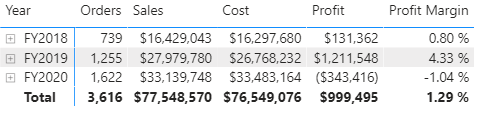
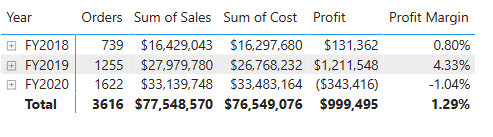
Fixes #299 and #301 (#302)

diff --git a/Instructions/Labs/08-design-power-bi-reports.md b/Instructions/Labs/08-design-power-bi-reports.md
@@ -46,6 +46,10 @@ In this task, you'll design the first report page. When you've completed the des
 
     ![Picture 1](Linked_image_Files/08-design-power-bi-reports_image15.png)
 
+1. The **Format Image** pane will open beside the canvas. From this pane, select **Image > Browse** to select the image file in the next step.
+
+    ![Format Image pane](Linked_image_Files/08-design-power-bi-reports-format-image.png)
+
 1. In the **Open** window, navigate to the **C:\Users\Student\Downloads\08-design-report** folder.
 
 1. Select the **AdventureWorksLogo.jpg** file, and then select **Open**.
@@ -200,19 +204,21 @@ In this task, you'll design the second report page. When you've completed the de
      - `Profit` (from the `Pricing` folder)
      - `Profit Margin` (from the `Pricing` folder)
 
+    > _The fields will show in the visual with a prefix showing the aggregation type; "Sum of Sales."_
+
     ![Picture 22](Linked_image_Files/08-design-power-bi-reports_image43.png)
 
-1. In the **Filters** pane (located at the left of the **Visualizations** pane), notice the **Filters on this page** section (you may need to expand open the pane and scroll down).
+2. In the **Filters** pane (located at the left of the **Visualizations** pane), notice the **Filters on this page** section (you may need to expand open the pane and scroll down).
 
     ![Picture 23](Linked_image_Files/08-design-power-bi-reports_image44.png)
 
-1. From the **Data** pane, drag the `Product | Category` field into the **Filters on this page** well.
+3. From the **Data** pane, drag the `Product | Category` field into the **Filters on this page** well.
 
     > _Fields added to the **Filters** pane can achieve the same result as a slicer. One difference is they don't take up space on the report page. Another difference is that they can be configured to achieve more sophisticated filtering requirements._
 
-1. Inside the filter card, at the top right, select the arrow to collapse the card.
+4. Inside the filter card, at the top right, select the arrow to collapse the card.
 
-1. Add each of the following `Product` table fields to the **Filters on this page** well, collapsing each, directly beneath the `Category` field:
+5. Add each of the following `Product` table fields to the **Filters on this page** well, collapsing each, directly beneath the `Category` field:
 
      - `Subcategory`
      - `Product`
@@ -220,7 +226,7 @@ In this task, you'll design the second report page. When you've completed the de
 
     ![Picture 24](Linked_image_Files/08-design-power-bi-reports_image46.png)
 
-1. Save the Power BI Desktop file.
+6. Save the Power BI Desktop file.
 
     > _The design of the second page is now complete._
 
